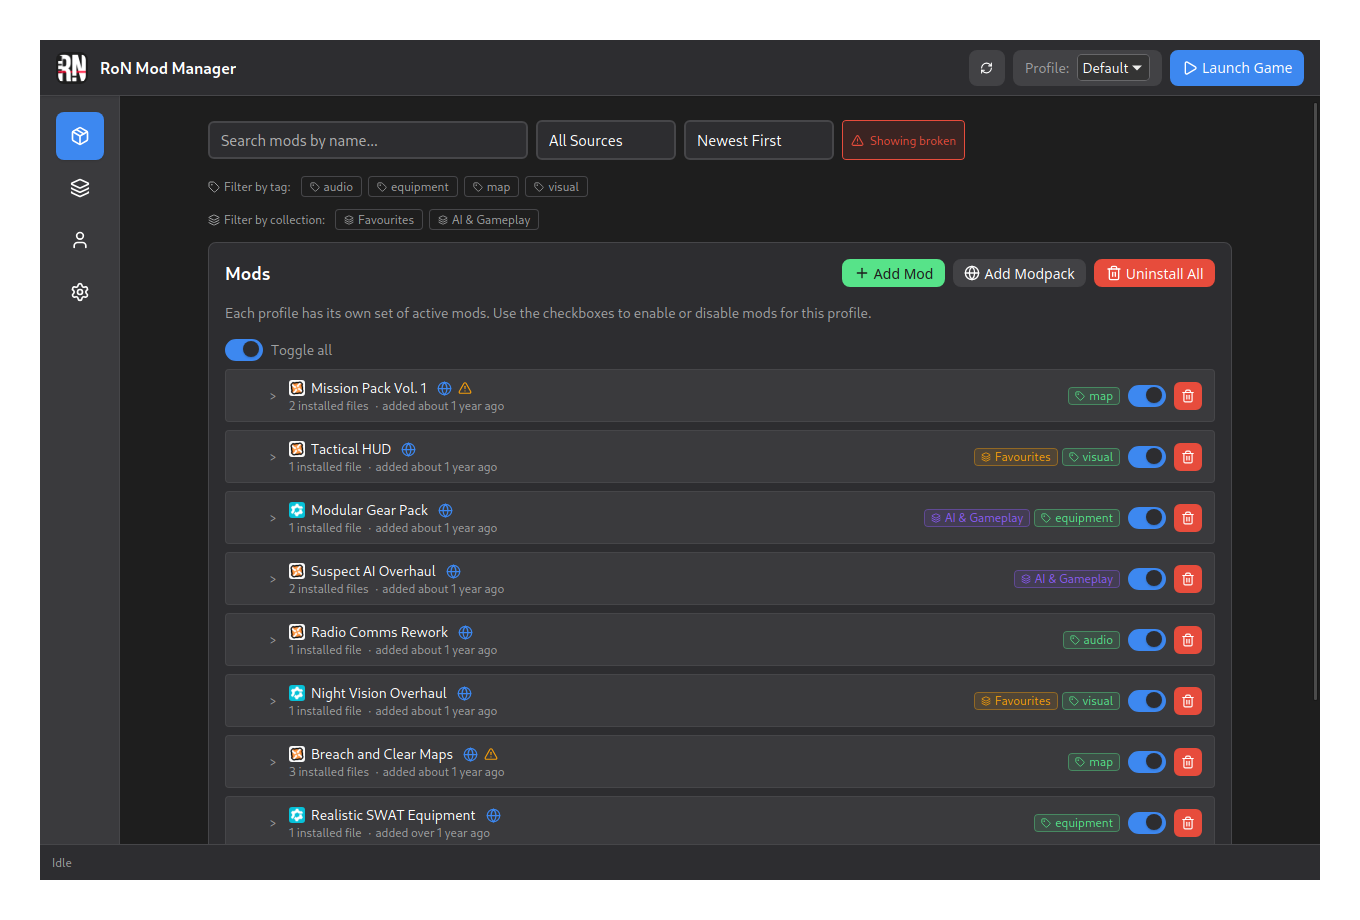
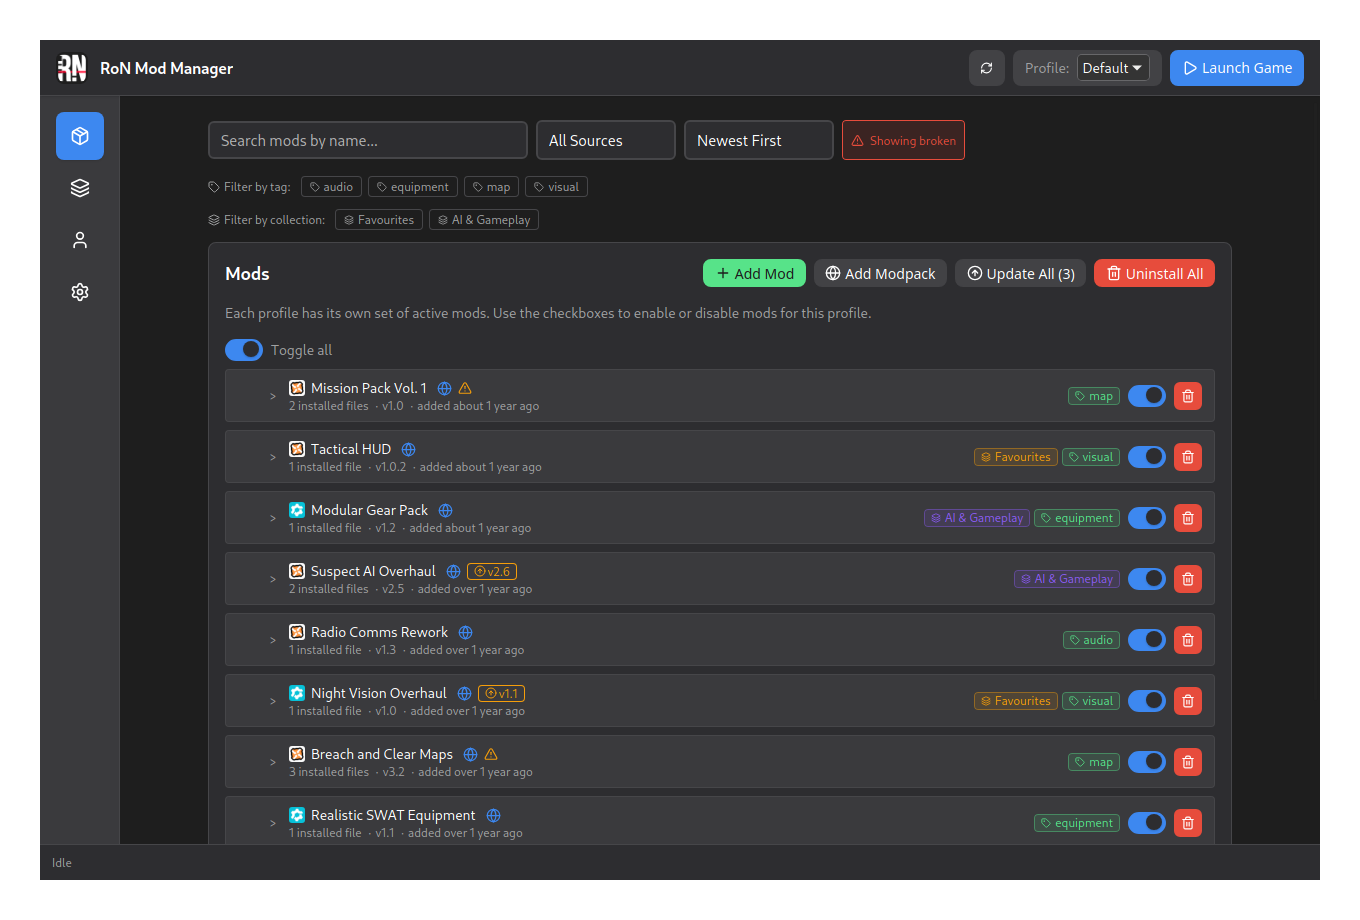
feat: seed mods needing updates in screenshot mode
Screenshot mode's dummy mod list never had update data, so the
Update All button and per-mod update badges never appeared in
docs/screenshots. Add installedVersion and a DUMMY_MOD_UPDATES set
to incognitoMode.ts, and route the mods page's update state through
it via effectiveModUpdates.

diff --git a/src/lib/stores/incognitoMode.ts b/src/lib/stores/incognitoMode.ts
@@ -1,5 +1,6 @@
 import { writable } from "svelte/store";
 import type { InstalledModGroup } from "$lib/types";
+import type { ModUpdateInfo } from "$lib/api/commands";
 
 export const incognitoMode = writable<boolean>(false);
 export const screenshotMode = writable<boolean>(false);
@@ -11,6 +12,7 @@ export const DUMMY_MOD_GROUPS: InstalledModGroup[] = [
     sourceUrl: "https://www.nexusmods.com/readyornot/mods/1042",
     managedByManifest: true,
     installedAt: 1736899200,
+    installedVersion: "1.4",
     files: [
       {
         name: "CQB_Tactics_Pack_P.pak",
@@ -25,6 +27,7 @@ export const DUMMY_MOD_GROUPS: InstalledModGroup[] = [
     sourceUrl: "https://www.nexusmods.com/readyornot/mods/2187",
     managedByManifest: true,
     installedAt: 1738540800,
+    installedVersion: "2.0.1",
     files: [
       {
         name: "Urban_Warfare_Bundle_P.pak",
@@ -44,6 +47,7 @@ export const DUMMY_MOD_GROUPS: InstalledModGroup[] = [
     sourceUrl: "https://mod.io/g/readyornot/m/realistic-swat-equipment",
     managedByManifest: false,
     installedAt: 1740009600,
+    installedVersion: "1.1",
     files: [
       {
         name: "Realistic_SWAT_Equipment_P.pak",
@@ -58,6 +62,7 @@ export const DUMMY_MOD_GROUPS: InstalledModGroup[] = [
     sourceUrl: "https://www.nexusmods.com/readyornot/mods/3301",
     managedByManifest: true,
     installedAt: 1741305600,
+    installedVersion: "3.2",
     files: [
       {
         name: "Breach_And_Clear_Maps_P.pak",
@@ -82,6 +87,7 @@ export const DUMMY_MOD_GROUPS: InstalledModGroup[] = [
     sourceUrl: "https://mod.io/g/readyornot/m/nightvision-overhaul",
     managedByManifest: false,
     installedAt: 1742601600,
+    installedVersion: "1.0",
     files: [
       {
         name: "NightVision_Overhaul_P.pak",
@@ -96,6 +102,7 @@ export const DUMMY_MOD_GROUPS: InstalledModGroup[] = [
     sourceUrl: "https://www.nexusmods.com/readyornot/mods/4455",
     managedByManifest: true,
     installedAt: 1744243200,
+    installedVersion: "1.3",
     files: [
       {
         name: "Radio_Comms_Rework_P.pak",
@@ -110,6 +117,7 @@ export const DUMMY_MOD_GROUPS: InstalledModGroup[] = [
     sourceUrl: "https://www.nexusmods.com/readyornot/mods/5123",
     managedByManifest: true,
     installedAt: 1745539200,
+    installedVersion: "2.5",
     files: [
       {
         name: "Suspect_AI_Overhaul_P.pak",
@@ -129,6 +137,7 @@ export const DUMMY_MOD_GROUPS: InstalledModGroup[] = [
     sourceUrl: "https://mod.io/g/readyornot/m/modular-gear-pack",
     managedByManifest: false,
     installedAt: 1746662400,
+    installedVersion: "1.2",
     files: [
       {
         name: "Modular_Gear_Pack_P.pak",
@@ -143,6 +152,7 @@ export const DUMMY_MOD_GROUPS: InstalledModGroup[] = [
     sourceUrl: "https://www.nexusmods.com/readyornot/mods/6078",
     managedByManifest: false,
     installedAt: 1747612800,
+    installedVersion: "1.0.2",
     files: [
       {
         name: "Tactical_HUD_P.pak",
@@ -157,6 +167,7 @@ export const DUMMY_MOD_GROUPS: InstalledModGroup[] = [
     sourceUrl: "https://www.nexusmods.com/readyornot/mods/7290",
     managedByManifest: true,
     installedAt: 1748304000,
+    installedVersion: "1.0",
     files: [
       {
         name: "Mission_Pack_Vol1_P.pak",
@@ -189,4 +200,28 @@ export const DUMMY_TAGS: Record<string, string[]> = {
   equipment: ["Realistic_SWAT_Equipment", "Modular_Gear_Pack"],
   map: ["Breach_And_Clear_Maps", "Mission_Pack_Vol1"],
   visual: ["NightVision_Overhaul", "Tactical_HUD"],
+};
+
+export const DUMMY_MOD_UPDATES: Record<string, ModUpdateInfo> = {
+  CQB_Tactics_Pack: {
+    archiveName: "CQB_Tactics_Pack",
+    source: "nexus",
+    currentVersion: "1.4",
+    latestVersion: "1.6",
+    updateAvailable: true,
+  },
+  NightVision_Overhaul: {
+    archiveName: "NightVision_Overhaul",
+    source: "modio",
+    currentVersion: "1.0",
+    latestVersion: "1.1",
+    updateAvailable: true,
+  },
+  Suspect_AI_Overhaul: {
+    archiveName: "Suspect_AI_Overhaul",
+    source: "nexus",
+    currentVersion: "2.5",
+    latestVersion: "2.6",
+    updateAvailable: true,
+  },
 };

diff --git a/src/routes/mods/+page.svelte b/src/routes/mods/+page.svelte
@@ -179,6 +179,7 @@
     DUMMY_COLLECTIONS,
     DUMMY_COLLECTION_COLORS,
     DUMMY_TAGS,
+    DUMMY_MOD_UPDATES,
   } from "$lib/stores/incognitoMode";
   import { formatDistanceToNow } from "date-fns";
   import type {
@@ -230,8 +231,9 @@
   let brokenModsMap: Record<string, string> = {};
   let noWorldGenSet: Set<string> = new Set();
   let modUpdates: Record<string, ModUpdateInfo> = {};
-  $: updatableGroups = modGroups.filter(
-    (g) => modUpdates[g.name] && g.sourceUrl,
+  $: effectiveModUpdates = $incognitoMode ? DUMMY_MOD_UPDATES : modUpdates;
+  $: updatableGroups = effectiveModGroups.filter(
+    (g) => effectiveModUpdates[g.name] && g.sourceUrl,
   );
 
   // Nexus version strings often already include a leading "v" (e.g. "v2.2") -
@@ -2109,11 +2111,11 @@
                         />
                       </span>
                     {/if}
-                    {#if modUpdates[group.name] && group.sourceUrl}
+                    {#if effectiveModUpdates[group.name] && group.sourceUrl}
                       <span
                         role="button"
                         tabindex="0"
-                        title={`Update available${modUpdates[group.name].latestVersion ? `: ${modUpdates[group.name].currentVersion ?? "?"} -> ${modUpdates[group.name].latestVersion}` : ""}`}
+                        title={`Update available${effectiveModUpdates[group.name].latestVersion ? `: ${effectiveModUpdates[group.name].currentVersion ?? "?"} -> ${effectiveModUpdates[group.name].latestVersion}` : ""}`}
                         class="flex items-center gap-0.5 cursor-pointer text-xs rounded px-1.5 border"
                         style="color: #f59e0b; border-color: #f59e0b;"
                         on:click|stopPropagation={() => {
@@ -2142,8 +2144,8 @@
                         }}
                       >
                         <ArrowUpCircle size={12} style="flex-shrink: 0;" />
-                        {modUpdates[group.name].latestVersion
-                          ? `v${stripVersionPrefix(modUpdates[group.name].latestVersion ?? "")}`
+                        {effectiveModUpdates[group.name].latestVersion
+                          ? `v${stripVersionPrefix(effectiveModUpdates[group.name].latestVersion ?? "")}`
                           : "Update"}
                       </span>
                     {/if}
